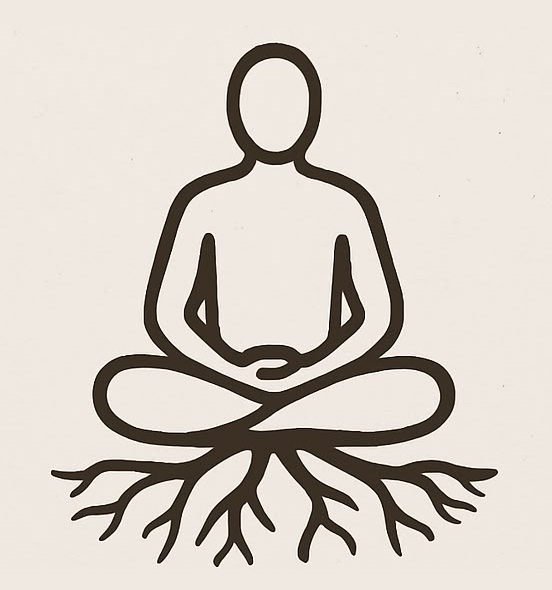
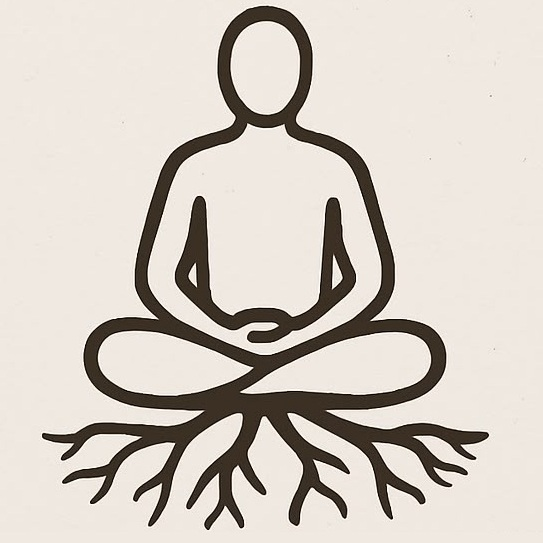
area de membro organização

Changed region(s): [[0.0589, 0.0, 0.884, 0.9724]]

diff --git a/src/pages/comunidade/ComunidadeApp.css b/src/pages/comunidade/ComunidadeApp.css
@@ -403,23 +403,24 @@
   color: var(--cm-text);
 }
 
-/* 26/08: no desktop (sidebar fixa em 240px, ver .cm-sidebar-left), o card
-   "Olá, Nome" em linha (avatar - nome/badge - Sair) ficava apertado demais
-   -- o nome quebrava em 2 linhas e o botão Sair (ícone+texto) ficava colado
-   no TOPO do card, no mesmo nível de "Olá,", sobrepondo a pill "Membro da
-   comunidade" logo abaixo. Vira coluna (avatar, nome, badge empilhados e
-   centralizados) com o Sair virando uma pill própria, fixada no canto
-   inferior direito via position:absolute -- min-height/padding-bottom
-   garantem espaço reservado pra ela não sobrepor o texto acima. Só
-   1025px+ (26/08: faixa tablet 768-1024 estendida pra usar o hamburger, ver
-   @media max-width:1024px mais abaixo — abaixo de 1025px o card nem aparece,
-   some pro topbar/drawer). */
+/* 26/08: no desktop (sidebar fixa em 240px, ver .cm-sidebar-left), volta pro
+   layout em linha só (avatar - nome/badge - Sair) — antes isso quebrava
+   (nome em 2 linhas, Sair sobrepondo a pill) e a solução tinha sido virar
+   coluna com Sair em position:absolute. Em vez disso, aqui o botão Sair só
+   encolhe (pill pequena, ícone reduzido) pra caber ao lado do nome/badge,
+   igual ao pedido em area_membro.png. Só 1025px+ (26/08: faixa tablet
+   768-1024 estendida pra usar o hamburger, ver @media max-width:1024px mais
+   abaixo — abaixo de 1025px o card nem aparece, some pro topbar/drawer). */
 @media (min-width: 1025px) {
   .cm-sidebar-user-card {
-    position: relative;
-    flex-direction: column;
-    padding-bottom: 50px;
-    min-height: 100px;
+    padding: 8px 10px;
+    gap: 8px;
+  }
+
+  .cm-sidebar-user-info strong {
+    white-space: nowrap;
+    overflow: hidden;
+    text-overflow: ellipsis;
   }
 
   .cm-sidebar-user-card .cm-badge-membro {
@@ -427,27 +428,28 @@
     padding: 4px 10px;
     min-height: 0;
     width: fit-content;
-    max-width: 180px;
+    max-width: 100%;
     white-space: nowrap;
-    margin-top: 6px;
+    margin-top: 3px;
   }
 
   .cm-sidebar-logout {
-    position: absolute;
-    top: auto;
-    bottom: 12px;
-    right: 12px;
     flex-direction: row;
-    gap: 4px;
-    font-size: 12px;
-    padding: 6px 14px;
-    border-radius: 20px;
+    gap: 3px;
+    font-size: 10px;
+    padding: 4px 8px;
+    border-radius: 14px;
     background: #f5e8d2;
     border: 1px solid #e8d5b8;
   }
 
+  .cm-sidebar-logout svg {
+    width: 12px;
+    height: 12px;
+  }
+
   .cm-sidebar-logout span {
-    font-size: 12px;
+    font-size: 10px;
   }
 }
 
